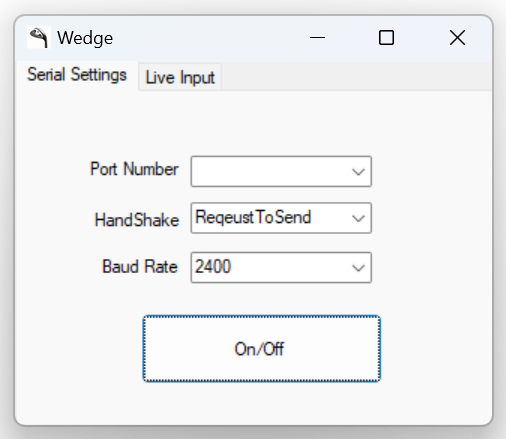
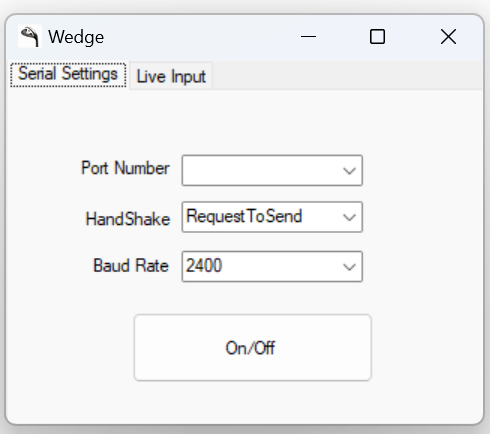
spelling update

diff --git a/Wedge/frmWedge.Designer.cs b/Wedge/frmWedge.Designer.cs
@@ -49,38 +49,40 @@
             // cboPort
             // 
             this.cboPort.FormattingEnabled = true;
-            this.cboPort.Location = new System.Drawing.Point(113, 42);
+            this.cboPort.Location = new System.Drawing.Point(170, 65);
+            this.cboPort.Margin = new System.Windows.Forms.Padding(4, 5, 4, 5);
             this.cboPort.Name = "cboPort";
-            this.cboPort.Size = new System.Drawing.Size(121, 21);
+            this.cboPort.Size = new System.Drawing.Size(180, 28);
             this.cboPort.TabIndex = 0;
             this.cboPort.SelectedIndexChanged += new System.EventHandler(this.cboPort_SelectedIndexChanged);
             // 
             // cboBaudRate
             // 
             this.cboBaudRate.FormattingEnabled = true;
-            this.cboBaudRate.Location = new System.Drawing.Point(113, 106);
+            this.cboBaudRate.Location = new System.Drawing.Point(170, 163);
+            this.cboBaudRate.Margin = new System.Windows.Forms.Padding(4, 5, 4, 5);
             this.cboBaudRate.Name = "cboBaudRate";
-            this.cboBaudRate.Size = new System.Drawing.Size(121, 21);
+            this.cboBaudRate.Size = new System.Drawing.Size(180, 28);
             this.cboBaudRate.TabIndex = 1;
             // 
             // chkOnOff
             // 
             this.chkOnOff.Appearance = System.Windows.Forms.Appearance.Button;
-            this.chkOnOff.AutoSize = true;
-            this.chkOnOff.Location = new System.Drawing.Point(132, 147);
+            this.chkOnOff.Location = new System.Drawing.Point(120, 226);
+            this.chkOnOff.Margin = new System.Windows.Forms.Padding(4, 5, 4, 5);
             this.chkOnOff.Name = "chkOnOff";
-            this.chkOnOff.Size = new System.Drawing.Size(50, 23);
+            this.chkOnOff.Size = new System.Drawing.Size(241, 72);
             this.chkOnOff.TabIndex = 2;
             this.chkOnOff.Text = "On/Off";
+            this.chkOnOff.TextAlign = System.Drawing.ContentAlignment.MiddleCenter;
             this.chkOnOff.UseVisualStyleBackColor = true;
             // 
             // label1
             // 
             this.label1.AutoSize = true;
-            this.label1.Location = new System.Drawing.Point(43, 44);
-            this.label1.Margin = new System.Windows.Forms.Padding(2, 0, 2, 0);
+            this.label1.Location = new System.Drawing.Point(64, 68);
             this.label1.Name = "label1";
-            this.label1.Size = new System.Drawing.Size(66, 13);
+            this.label1.Size = new System.Drawing.Size(98, 20);
             this.label1.TabIndex = 3;
             this.label1.Text = "Port Number";
             this.label1.Click += new System.EventHandler(this.label1_Click);
@@ -88,40 +90,38 @@
             // label2
             // 
             this.label2.AutoSize = true;
-            this.label2.Location = new System.Drawing.Point(51, 109);
-            this.label2.Margin = new System.Windows.Forms.Padding(2, 0, 2, 0);
+            this.label2.Location = new System.Drawing.Point(76, 168);
             this.label2.Name = "label2";
-            this.label2.Size = new System.Drawing.Size(58, 13);
+            this.label2.Size = new System.Drawing.Size(86, 20);
             this.label2.TabIndex = 4;
             this.label2.Text = "Baud Rate";
             // 
             // label3
             // 
             this.label3.AutoSize = true;
-            this.label3.Location = new System.Drawing.Point(46, 78);
-            this.label3.Margin = new System.Windows.Forms.Padding(2, 0, 2, 0);
+            this.label3.Location = new System.Drawing.Point(69, 120);
             this.label3.Name = "label3";
-            this.label3.Size = new System.Drawing.Size(64, 13);
+            this.label3.Size = new System.Drawing.Size(94, 20);
             this.label3.TabIndex = 5;
             this.label3.Text = "HandShake";
             // 
             // cboHandShake
             // 
             this.cboHandShake.FormattingEnabled = true;
-            this.cboHandShake.Location = new System.Drawing.Point(113, 73);
+            this.cboHandShake.Location = new System.Drawing.Point(170, 112);
+            this.cboHandShake.Margin = new System.Windows.Forms.Padding(4, 5, 4, 5);
             this.cboHandShake.Name = "cboHandShake";
-            this.cboHandShake.Size = new System.Drawing.Size(121, 21);
+            this.cboHandShake.Size = new System.Drawing.Size(180, 28);
             this.cboHandShake.TabIndex = 6;
             // 
             // tabSerialSettings
             // 
             this.tabSerialSettings.Controls.Add(this.tabPage1);
             this.tabSerialSettings.Controls.Add(this.tabPage2);
-            this.tabSerialSettings.Location = new System.Drawing.Point(0, -1);
-            this.tabSerialSettings.Margin = new System.Windows.Forms.Padding(2, 2, 2, 2);
+            this.tabSerialSettings.Location = new System.Drawing.Point(0, -2);
             this.tabSerialSettings.Name = "tabSerialSettings";
             this.tabSerialSettings.SelectedIndex = 0;
-            this.tabSerialSettings.Size = new System.Drawing.Size(317, 245);
+            this.tabSerialSettings.Size = new System.Drawing.Size(484, 377);
             this.tabSerialSettings.TabIndex = 7;
             // 
             // tabPage1
@@ -133,11 +133,10 @@
             this.tabPage1.Controls.Add(this.label3);
             this.tabPage1.Controls.Add(this.cboBaudRate);
             this.tabPage1.Controls.Add(this.label1);
-            this.tabPage1.Location = new System.Drawing.Point(4, 22);
-            this.tabPage1.Margin = new System.Windows.Forms.Padding(2, 2, 2, 2);
+            this.tabPage1.Location = new System.Drawing.Point(4, 29);
             this.tabPage1.Name = "tabPage1";
-            this.tabPage1.Padding = new System.Windows.Forms.Padding(2, 2, 2, 2);
-            this.tabPage1.Size = new System.Drawing.Size(309, 219);
+            this.tabPage1.Padding = new System.Windows.Forms.Padding(3);
+            this.tabPage1.Size = new System.Drawing.Size(476, 344);
             this.tabPage1.TabIndex = 0;
             this.tabPage1.Text = "Serial Settings";
             this.tabPage1.UseVisualStyleBackColor = true;
@@ -145,11 +144,10 @@
             // tabPage2
             // 
             this.tabPage2.Controls.Add(this.textBox1);
-            this.tabPage2.Location = new System.Drawing.Point(4, 22);
-            this.tabPage2.Margin = new System.Windows.Forms.Padding(2, 2, 2, 2);
+            this.tabPage2.Location = new System.Drawing.Point(4, 29);
             this.tabPage2.Name = "tabPage2";
-            this.tabPage2.Padding = new System.Windows.Forms.Padding(2, 2, 2, 2);
-            this.tabPage2.Size = new System.Drawing.Size(309, 219);
+            this.tabPage2.Padding = new System.Windows.Forms.Padding(3);
+            this.tabPage2.Size = new System.Drawing.Size(476, 344);
             this.tabPage2.TabIndex = 1;
             this.tabPage2.Text = "Live Input";
             this.tabPage2.UseVisualStyleBackColor = true;
@@ -157,20 +155,20 @@
             // textBox1
             // 
             this.textBox1.Location = new System.Drawing.Point(0, 0);
-            this.textBox1.Margin = new System.Windows.Forms.Padding(2, 2, 2, 2);
             this.textBox1.Multiline = true;
             this.textBox1.Name = "textBox1";
             this.textBox1.ScrollBars = System.Windows.Forms.ScrollBars.Vertical;
-            this.textBox1.Size = new System.Drawing.Size(316, 217);
+            this.textBox1.Size = new System.Drawing.Size(472, 332);
             this.textBox1.TabIndex = 0;
             // 
             // frmWedge
             // 
-            this.AutoScaleDimensions = new System.Drawing.SizeF(6F, 13F);
+            this.AutoScaleDimensions = new System.Drawing.SizeF(9F, 20F);
             this.AutoScaleMode = System.Windows.Forms.AutoScaleMode.Font;
-            this.ClientSize = new System.Drawing.Size(318, 243);
+            this.ClientSize = new System.Drawing.Size(477, 374);
             this.Controls.Add(this.tabSerialSettings);
             this.Icon = ((System.Drawing.Icon)(resources.GetObject("$this.Icon")));
+            this.Margin = new System.Windows.Forms.Padding(4, 5, 4, 5);
             this.Name = "frmWedge";
             this.Text = "Wedge";
             this.tabSerialSettings.ResumeLayout(false);

diff --git a/Wedge/frmWedge.cs b/Wedge/frmWedge.cs
@@ -18,7 +18,7 @@ namespace Wedgies
         {
             { "None", Handshake.None },
             { "XOnXOff", Handshake.XOnXOff },
-            { "ReqeustToSend", Handshake.RequestToSend },
+            { "RequestToSend", Handshake.RequestToSend },
             { "RequestToSendXOnXOff", Handshake.RequestToSendXOnXOff }
 
         };
